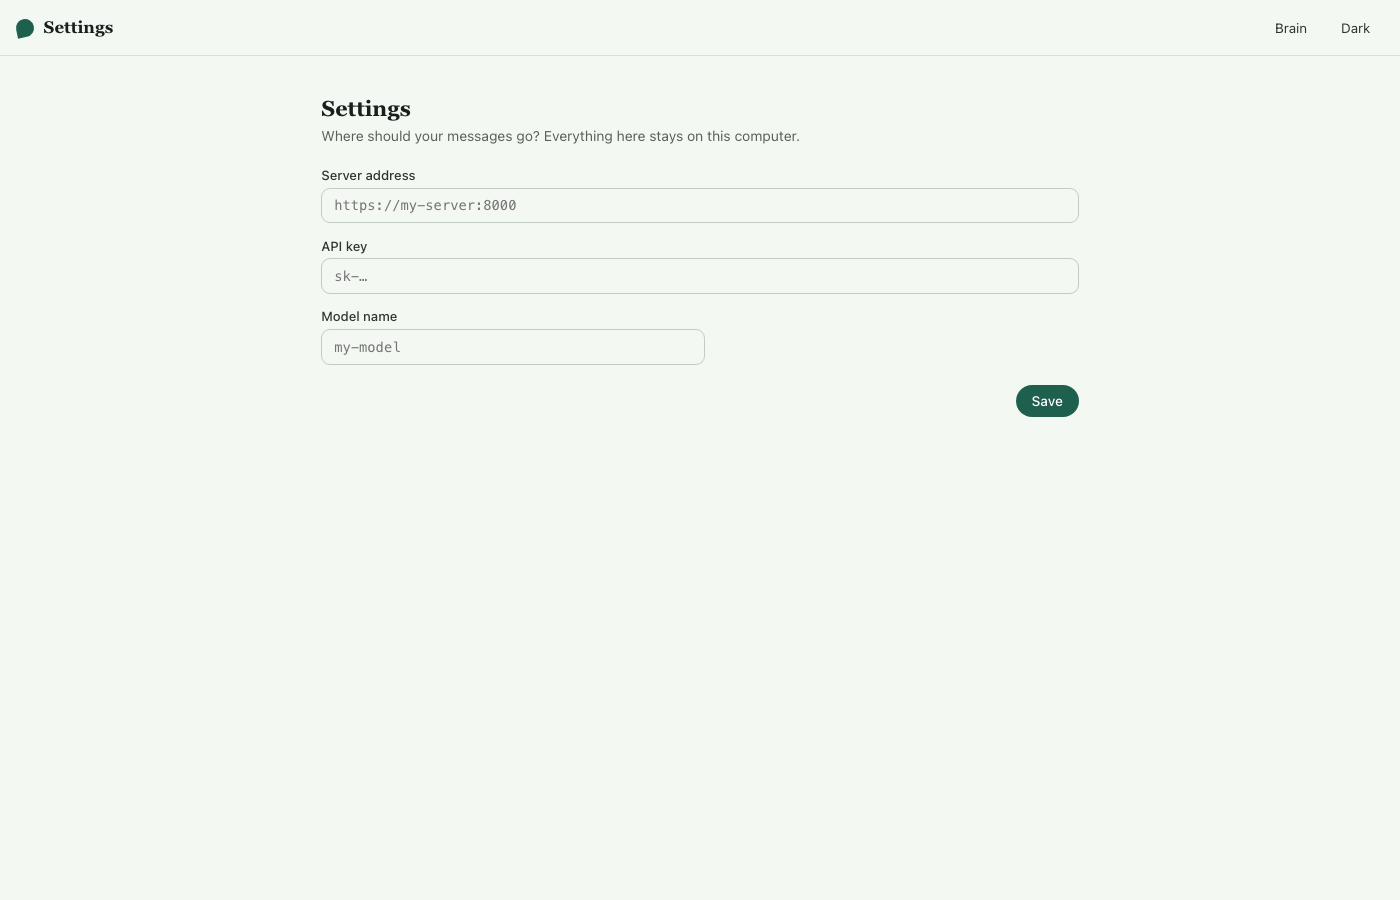
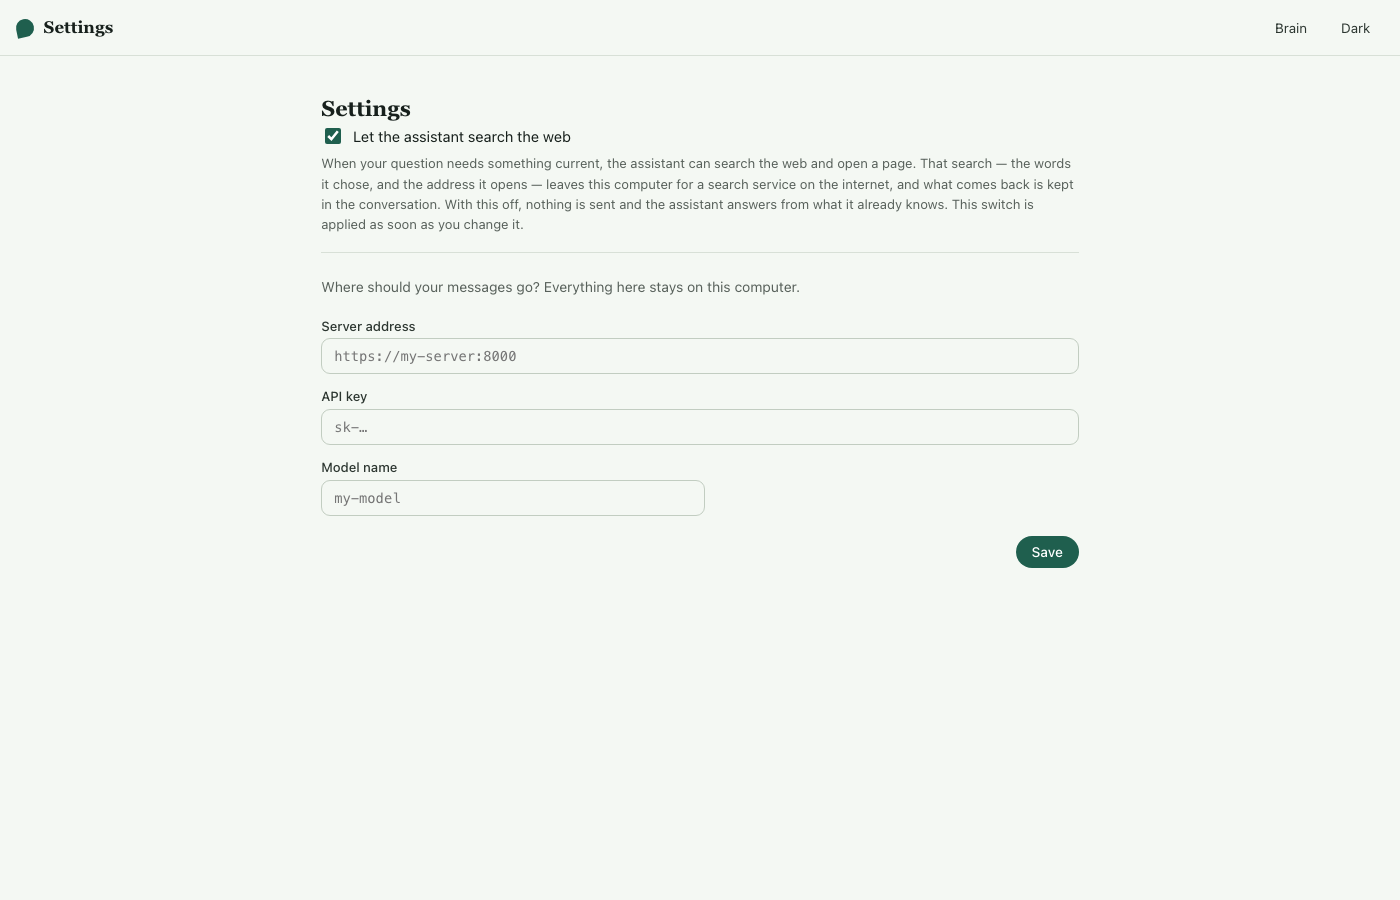
fix(settings): the web-search switch is saved when it is touched, not when a form is valid
Found at the keyboard, by trying to use it. The switch was inside the
connection form, and the only line that persisted it came after that form's
gates: an empty server address returned early with "Enter the server address",
so nothing was written. On a normal install the brain runs on this computer and
that field is never filled in, so the switch could not be turned off at all —
and it is on by default, which means the privacy control was decorative for
every user who never configured a remote server.

It is out of the form now. Touching it writes it, with no Save in between and
no dependency on fields that are about something else: a control that says
"nothing is sent" must obey the moment it is asked, not once an unrelated
address parses. Saving the connection form carries the stored value through
rather than the form's idea of it, so an address typed and not saved is neither
committed nor blanked.

The tests that existed asserted the switch's value reaches the request body,
and they passed the whole time — the value does reach it; it was the saving
that never happened. The new check asserts what was actually broken: with the
address left empty, turn it off, and the stored settings say off. It fails on
the code as it stood, which is the only reason to trust it.

Every other user-visible control was checked for the same shape: the theme
writes on toggle, and the launch profile and the sampling knobs each sit behind
[…]

diff --git a/chat/src/components/SettingsForm.tsx b/chat/src/components/SettingsForm.tsx
@@ -5,14 +5,22 @@ import "./Settings.css";
 interface SettingsFormProps {
   initial: ChatSettings;
   onSave: (settings: ChatSettings) => void;
+  /** Applied the moment it is touched — no Save button in between. */
+  onWebTools: (enabled: boolean) => void;
 }
 
-/** The connection form. Lives on the Settings surface — no dialog. */
-export function SettingsForm({ initial, onSave }: SettingsFormProps) {
+/**
+ * The Settings surface: the search switch, then the connection form.
+ *
+ * The switch is a privacy control, not a field of that form. It used to share
+ * the form's Save, which returns early unless a server address and model are
+ * filled in — and on a normal install they are not, because the brain runs on
+ * this computer. So the switch could never be changed, and it defaults to on.
+ */
+export function SettingsForm({ initial, onSave, onWebTools }: SettingsFormProps) {
   const [endpoint, setEndpoint] = useState(initial.endpoint);
   const [token, setToken] = useState(initial.token);
   const [model, setModel] = useState(initial.model);
-  const [webTools, setWebTools] = useState(initial.webTools);
   const [error, setError] = useState<string | null>(null);
   const [saved, setSaved] = useState(false);
 
@@ -35,13 +43,39 @@ export function SettingsForm({ initial, onSave }: SettingsFormProps) {
       return;
     }
     setError(null);
-    onSave({ endpoint: trimmedEndpoint, token: token.trim(), model: model.trim(), webTools });
+    // The switch rides along as the value App already holds — not as a field of
+    // this form. Omitting it would store a record without it, and a record
+    // without it reads back as `true`: Save would quietly turn the switch on.
+    onSave({
+      endpoint: trimmedEndpoint,
+      token: token.trim(),
+      model: model.trim(),
+      webTools: initial.webTools,
+    });
     setSaved(true);
   }
 
   return (
     <div className="settings-page">
       <h2>Settings</h2>
+      <div className="settings-toggle">
+        <label>
+          <input
+            type="checkbox"
+            checked={initial.webTools}
+            onChange={(event) => onWebTools(event.target.checked)}
+          />
+          <span>Let the assistant search the web</span>
+        </label>
+        <p className="settings-note">
+          When your question needs something current, the assistant can search the web and open a
+          page. That search — the words it chose, and the address it opens — leaves this computer
+          for a search service on the internet, and what comes back is kept in the conversation.
+          With this off, nothing is sent and the assistant answers from what it already knows. This
+          switch is applied as soon as you change it.
+        </p>
+      </div>
+
       <p className="settings-lede">
         Where should your messages go? Everything here stays on this computer.
       </p>
@@ -88,23 +122,6 @@ export function SettingsForm({ initial, onSave }: SettingsFormProps) {
         </p>
       ) : null}
       {saved && !error ? <p className="settings-saved">Saved.</p> : null}
-
-      <div className="settings-toggle">
-        <label>
-          <input
-            type="checkbox"
-            checked={webTools}
-            onChange={(event) => setWebTools(event.target.checked)}
-          />
-          <span>Let the assistant search the web</span>
-        </label>
-        <p className="settings-note">
-          When your question needs something current, the assistant can search the web and open a
-          page. That search — the words it chose, and the address it opens — leaves this computer
-          for a search service on the internet, and what comes back is kept in the conversation.
-          With this off, nothing is sent and the assistant answers from what it already knows.
-        </p>
-      </div>
 
       <div className="settings-actions">
         <button type="button" className="btn-primary" onClick={save}>

diff --git a/chat/src/App.tsx b/chat/src/App.tsx
@@ -802,6 +802,14 @@ export function App() {
           ) : surface === "settings" ? (
             <SettingsForm
               initial={settings}
+              onWebTools={(webTools) => {
+                // Writes only itself, from the settings that are already
+                // stored: the text sitting unsaved in the connection fields is
+                // neither committed nor wiped by touching this.
+                const next = { ...settings, webTools };
+                setSettings(next);
+                saveSettings(next);
+              }}
               onSave={(next) => {
                 setSettings(next);
                 saveSettings(next);

diff --git a/chat/src/components/Settings.css b/chat/src/components/Settings.css
@@ -21,9 +21,9 @@
 }
 
 .settings-toggle {
-  margin: 1.5rem 0 1rem;
-  padding-top: 1.1rem;
-  border-top: 1px solid var(--border);
+  margin: 0 0 1.4rem;
+  padding-bottom: 1.1rem;
+  border-bottom: 1px solid var(--border);
 }
 
 .settings-toggle > label {
